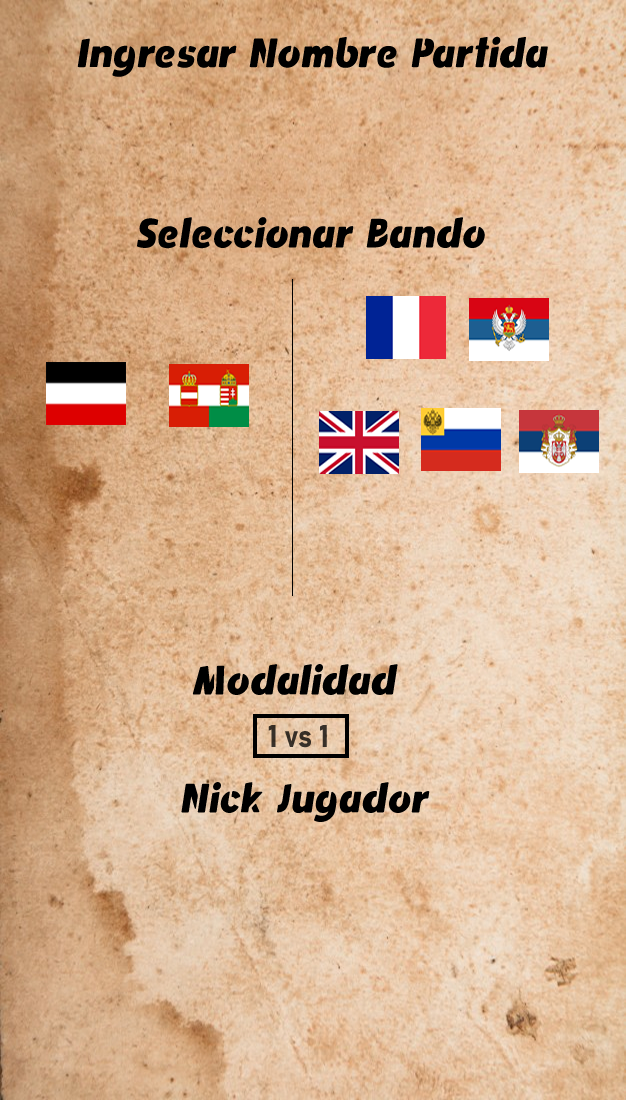
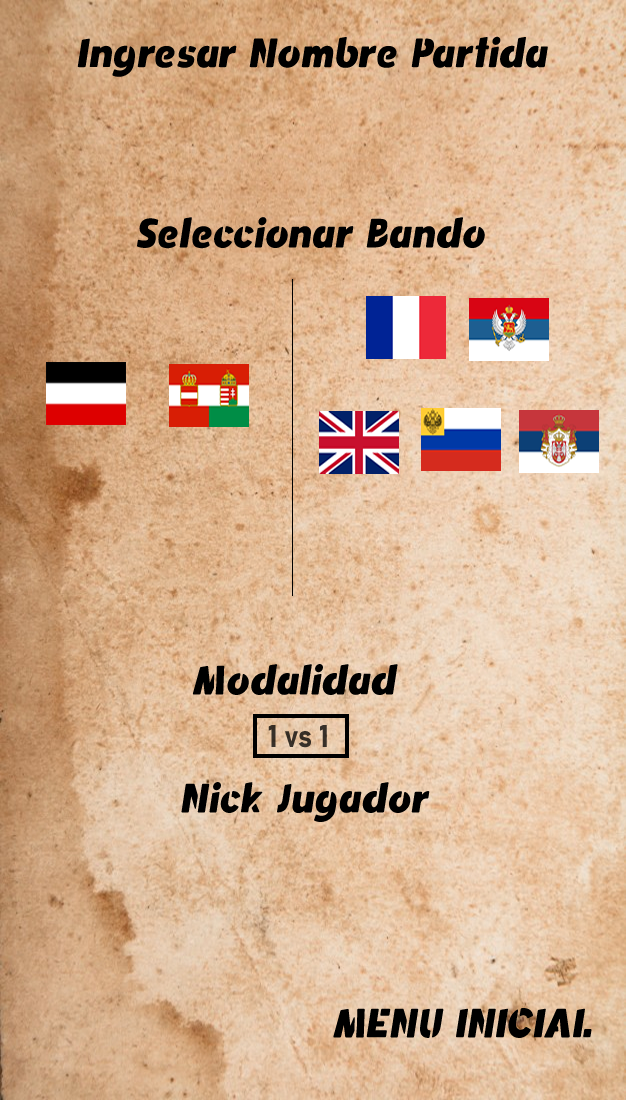
Volver a inicio y para atras

Changed region(s): [[0.516, 0.8964, 0.9409, 0.9582]]

diff --git a/ConquerorOfTheSkyClient/Scenes/MenuPartidas.js b/ConquerorOfTheSkyClient/Scenes/MenuPartidas.js
@@ -146,6 +146,7 @@ class MenuPartidas extends Phaser.Scene {
                 console.log()
                 this.scene.pause();
                 this.scene.launch('IngresarPartidaBuscar', { Id: partida[0], Nombre: partida[posicionNombre], Bando: bando, Publica: partida[posicionNombre  + 62] });
+                this.scene.pause('MenuPartidas');
                 var nextCellIndex = cellIndex + 1;
                 var nextItem = gridTable.items[nextCellIndex];
                 if (!nextItem) {
@@ -153,8 +154,27 @@ class MenuPartidas extends Phaser.Scene {
                 }
                 nextItem.color = 0xffffff - nextItem.color;
                 gridTable.updateVisibleCell(nextCellIndex);          
-            }, this)    
-         
+            }, this) 
+        
+        this.menuInicial = this.add.image(750,945, 'pruebaEndGame').setScale(0.4).setInteractive();
+        this.menuInicial.setAlpha(0.01);
+        this.menuInicial.on(Phaser.Input.Events.POINTER_DOWN, () => {
+            this.add.tween({
+                targets: this.menuInicial,
+                ease: 'Bounce.easeIn',
+                x:740,
+                duration: 100,
+                onComplete: () => {
+                    location.reload();
+                }
+            });
+
+            this.add.tween({
+                targets: [ this.pointsText, this.bestPointsText ],                
+                y: 400,
+                duration: 100
+            });
+        });
     }
 
     update() {

diff --git a/ConquerorOfTheSkyClient/Scenes/MenuBando.js b/ConquerorOfTheSkyClient/Scenes/MenuBando.js
@@ -267,7 +267,7 @@ class MenuBando extends Phaser.Scene
         });
 
         var alerta = this.add.text(680, 960, '', { font: 'bold 44px Courier', fill: '#080808' });
-        this.crearNuevaPartida = this.add.image(780, 1020, 'crearPartida').setOrigin(0).setScale(0.5).setInteractive();
+        this.crearNuevaPartida = this.add.image(680, 1025, 'crearPartida').setOrigin(0).setScale(0.36).setInteractive();
         this.crearNuevaPartida.on(Phaser.Input.Events.POINTER_DOWN, () => {
             console.log(ingresoTexto);
             if(IngresoNombrePartida == false ){
@@ -306,6 +306,26 @@ class MenuBando extends Phaser.Scene
             //console.log(config.Partida);
             //this.scene.launch('confirmarNuevaPartida');
         }
+        });
+
+        this.menuInicial = this.add.image(1140,1050, 'pruebaEndGame').setScale(0.43).setInteractive();
+        this.menuInicial.setAlpha(0.01);
+        this.menuInicial.on(Phaser.Input.Events.POINTER_DOWN, () => {
+            this.add.tween({
+                targets: this.menuInicial,
+                ease: 'Bounce.easeIn',
+                x:740,
+                duration: 100,
+                onComplete: () => {
+                    location.reload();
+                }
+            });
+
+            this.add.tween({
+                targets: [ this.pointsText, this.bestPointsText ],                
+                y: 400,
+                duration: 100
+            });
         });
 
     }

diff --git a/ConquerorOfTheSkyClient/Scenes/IngresarPartidaBuscar.js b/ConquerorOfTheSkyClient/Scenes/IngresarPartidaBuscar.js
@@ -36,6 +36,27 @@ class IngresarPartidaBuscar extends Phaser.Scene
         var ingresoTexto2 = false;
         this.add.image(0,0, 'desenfocar').setOrigin(0);
         this.add.image(73, 100, "menuEmergenteBuscar").setOrigin(0).setScale(1.1);
+        this.pruebaEndGame = this.add.image(1470,920, 'pruebaEndGame').setScale(0.6).setInteractive();
+        this.pruebaEndGame.setAlpha(0.05);
+        this.pruebaEndGame.on(Phaser.Input.Events.POINTER_DOWN, () => {
+            this.add.tween({
+                targets: this.pruebaEndGame,
+                ease: 'Bounce.easeIn',
+                x:740,
+                duration: 100,
+                onComplete: () => {
+                    this.scene.stop('IngresarPartidaBuscar');
+                    this.scene.resume('MenuPartidas');
+                    console.log('Post sleep');
+                }
+            });
+
+            this.add.tween({
+                targets: [ this.pointsText, this.bestPointsText ],                
+                y: 400,
+                duration: 100
+            });
+        });
         this.add.text(220,280, this.IdPartida).setScale(4);
         this.add.text(396,347, this.Nombre).setScale(4);
         if (this.Bando == 'Aliados')

diff --git a/ConquerorOfTheSkyClient/Scenes/GameOver.js b/ConquerorOfTheSkyClient/Scenes/GameOver.js
@@ -27,7 +27,7 @@ class GameOver extends Phaser.Scene
                 targets: this.pruebaEndGame,
                 ease: 'Bounce.easeIn',
                 x:620,
-                duration: 1000,
+                duration: 100,
                 onComplete: () => {
                     console.log('Antes del reload');
                     location.reload();
@@ -38,7 +38,7 @@ class GameOver extends Phaser.Scene
             this.add.tween({
                 targets: [ this.pointsText, this.bestPointsText ],                
                 y: 400,
-                duration: 1000
+                duration: 100
             });
         });
     }

diff --git a/ConquerorOfTheSkyClient/Scenes/Win.js b/ConquerorOfTheSkyClient/Scenes/Win.js
@@ -27,7 +27,7 @@ class Win extends Phaser.Scene
                 targets: this.pruebaEndGame,
                 ease: 'Bounce.easeIn',
                 x:740,
-                duration: 1000,
+                duration: 100,
                 onComplete: () => {
                     /*this.scene.remove('Play');
                     this.scene.start('MenuInicial');
@@ -41,7 +41,7 @@ class Win extends Phaser.Scene
             this.add.tween({
                 targets: [ this.pointsText, this.bestPointsText ],                
                 y: 400,
-                duration: 1000
+                duration: 100
             });
         });
 
